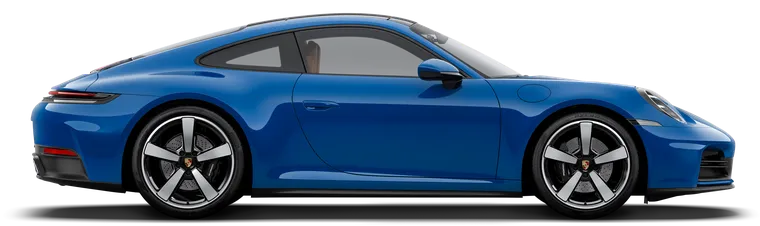
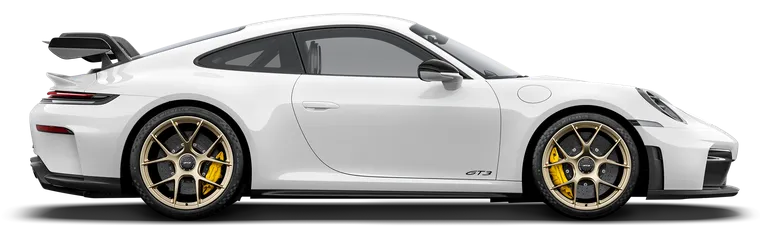
Mix Porsche performance variants into moving lineup

diff --git a/docs/kgt-2026-participant-roadbook/index.html b/docs/kgt-2026-participant-roadbook/index.html
@@ -163,23 +163,23 @@
           <div class="kit-special"><b>PRE-RSVP</b><span>Your kit includes a special extra.</span></div>
         </article>
       </div>
-      <!-- Current model imagery sourced from Porsche's official model overview on 14 July 2026. -->
+      <!-- Current model and performance-variant imagery sourced from Porsche's official model overview on 14 July 2026. -->
       <div class="porsche-lineup" aria-label="Porsche model lineup in motion">
         <div class="porsche-lineup-track">
           <div class="porsche-lineup-set">
-            <span class="lineup-car"><img src="assets/porsche-lineup/porsche-718.webp" width="760" height="226" alt="Porsche 718" decoding="async"></span>
-            <span class="lineup-car"><img src="assets/porsche-lineup/porsche-911.webp" width="760" height="226" alt="Porsche 911" decoding="async"></span>
-            <span class="lineup-car"><img src="assets/porsche-lineup/porsche-taycan.webp" width="760" height="211" alt="Porsche Taycan" decoding="async"></span>
+            <span class="lineup-car"><img src="assets/porsche-lineup/porsche-718.webp?v=sport-1" width="760" height="226" alt="Porsche 718 Cayman GT4 RS" decoding="async"></span>
+            <span class="lineup-car"><img src="assets/porsche-lineup/porsche-911.webp?v=sport-1" width="760" height="226" alt="Porsche 911 GT3" decoding="async"></span>
+            <span class="lineup-car"><img src="assets/porsche-lineup/porsche-taycan.webp?v=sport-1" width="760" height="211" alt="Porsche Taycan Turbo GT" decoding="async"></span>
             <span class="lineup-car"><img src="assets/porsche-lineup/porsche-panamera.webp" width="760" height="212" alt="Porsche Panamera" decoding="async"></span>
-            <span class="lineup-car"><img src="assets/porsche-lineup/porsche-macan.webp" width="760" height="259" alt="Porsche Macan" decoding="async"></span>
+            <span class="lineup-car"><img src="assets/porsche-lineup/porsche-macan.webp?v=sport-1" width="760" height="259" alt="Porsche Macan Turbo Electric" decoding="async"></span>
             <span class="lineup-car"><img src="assets/porsche-lineup/porsche-cayenne.webp" width="760" height="273" alt="Porsche Cayenne" decoding="async"></span>
           </div>
           <div class="porsche-lineup-set" aria-hidden="true">
-            <span class="lineup-car"><img src="assets/porsche-lineup/porsche-718.webp" width="760" height="226" alt="" decoding="async"></span>
-            <span class="lineup-car"><img src="assets/porsche-lineup/porsche-911.webp" width="760" height="226" alt="" decoding="async"></span>
-            <span class="lineup-car"><img src="assets/porsche-lineup/porsche-taycan.webp" width="760" height="211" alt="" decoding="async"></span>
+            <span class="lineup-car"><img src="assets/porsche-lineup/porsche-718.webp?v=sport-1" width="760" height="226" alt="" decoding="async"></span>
+            <span class="lineup-car"><img src="assets/porsche-lineup/porsche-911.webp?v=sport-1" width="760" height="226" alt="" decoding="async"></span>
+            <span class="lineup-car"><img src="assets/porsche-lineup/porsche-taycan.webp?v=sport-1" width="760" height="211" alt="" decoding="async"></span>
             <span class="lineup-car"><img src="assets/porsche-lineup/porsche-panamera.webp" width="760" height="212" alt="" decoding="async"></span>
-            <span class="lineup-car"><img src="assets/porsche-lineup/porsche-macan.webp" width="760" height="259" alt="" decoding="async"></span>
+            <span class="lineup-car"><img src="assets/porsche-lineup/porsche-macan.webp?v=sport-1" width="760" height="259" alt="" decoding="async"></span>
             <span class="lineup-car"><img src="assets/porsche-lineup/porsche-cayenne.webp" width="760" height="273" alt="" decoding="async"></span>
           </div>
         </div>
